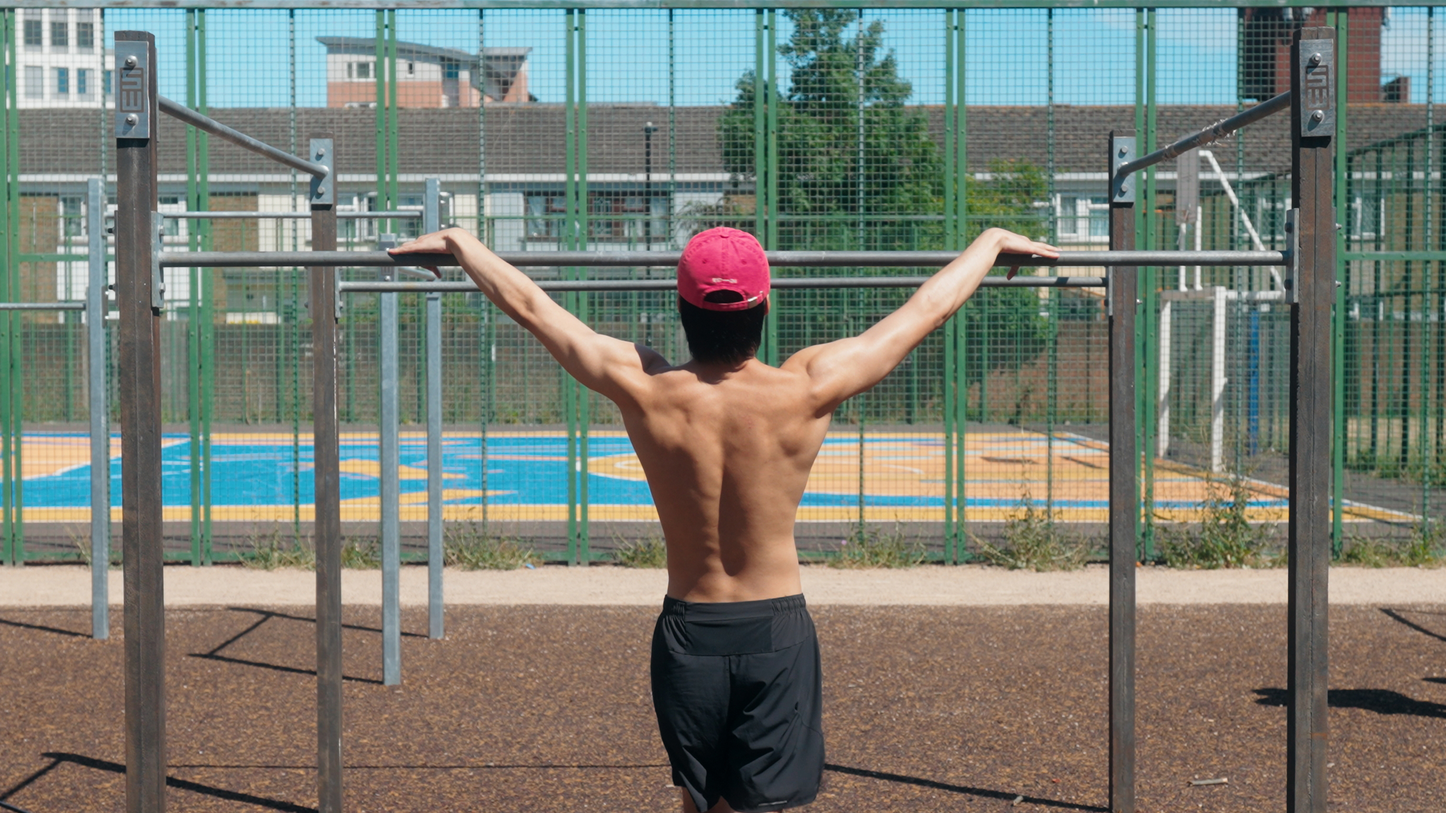
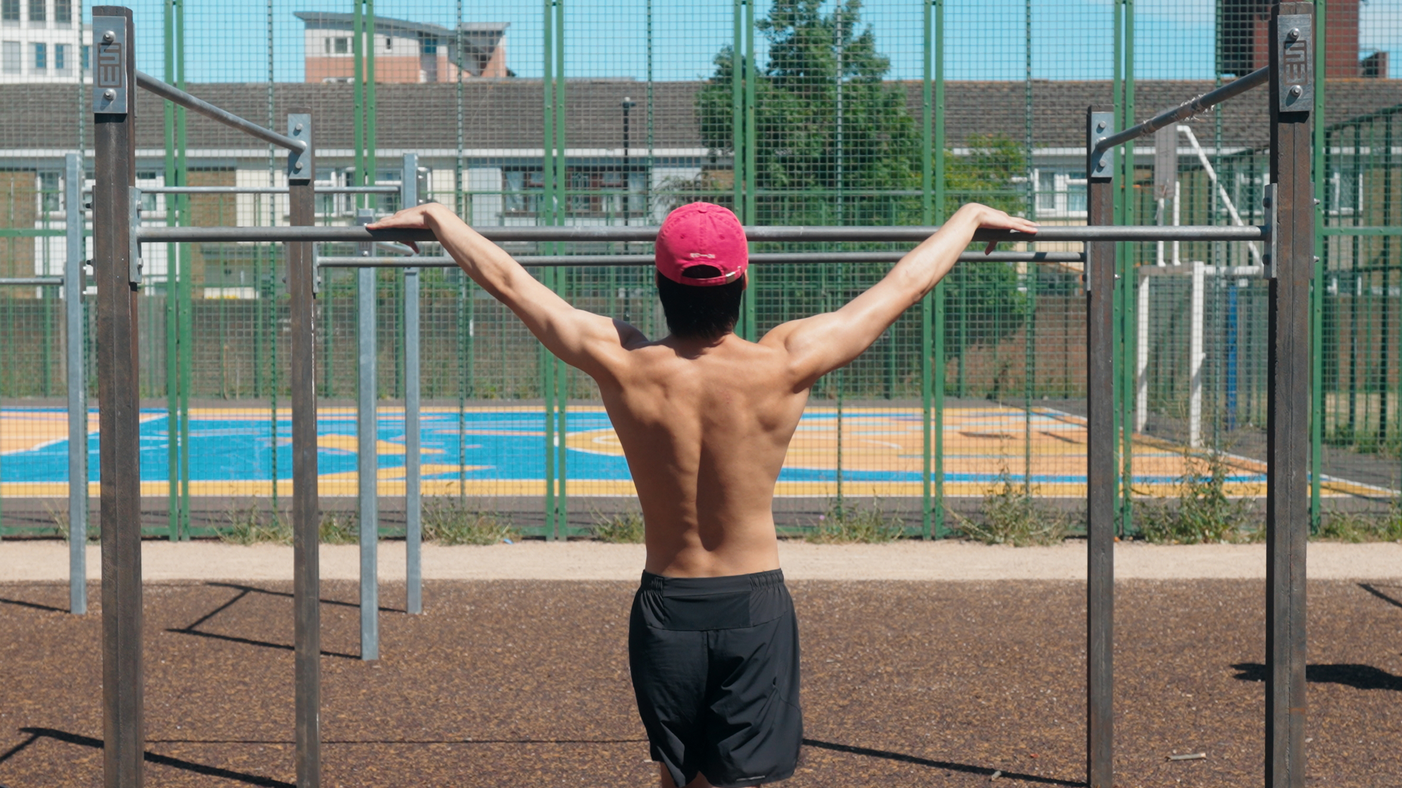
Resize background image and other program images

diff --git a/index.html b/index.html
@@ -66,7 +66,7 @@
 											<a href="#" class="special">Learn more</a>
 										</article>
 										<article>
-											<a href="#" class="image"><img src="images/front_lever_1.png" alt="" /></a>
+											<a href="#" class="image"><img src="images/front_lever_1.jpg" alt="" /></a>
 											<h3 class="major">Intermediate Pull Program</h3>
 											<p>This program aims to strengthen and unlock your front lever. Users should have a strong pull foundation before starting this program.</p>
 											<a href="#" class="special">Learn more</a>

diff --git a/assets/css/main.css b/assets/css/main.css
@@ -3473,10 +3473,8 @@ input, select, textarea {
 				padding: 7em 0 8.25em 0 ;
 				background-color: #2e3141;
 				background-image: url("../../images/bg.jpg");
-				background-size: auto,
- cover;
-				background-position: center,
- center;
+				background-size: cover;
+				background-position: center, center;
 				margin-bottom: -6.5em;
 			}
 
